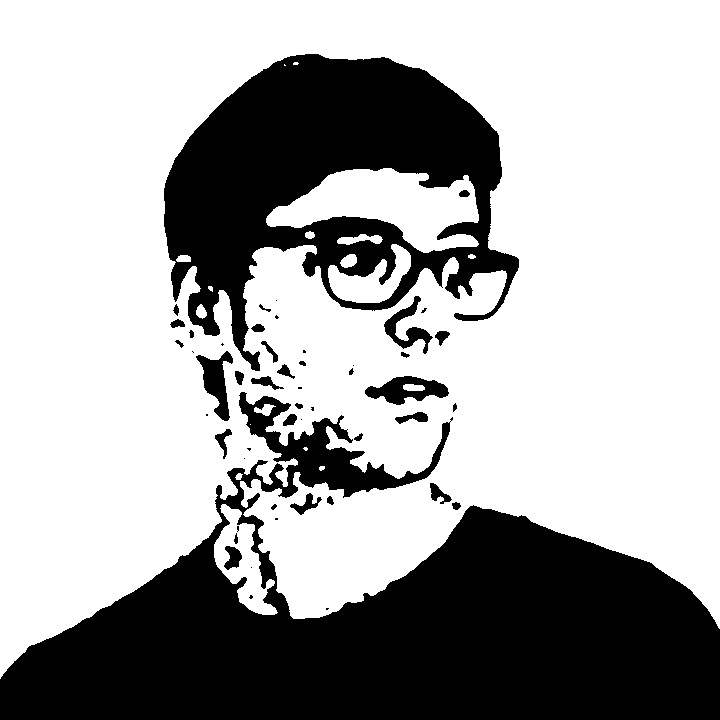
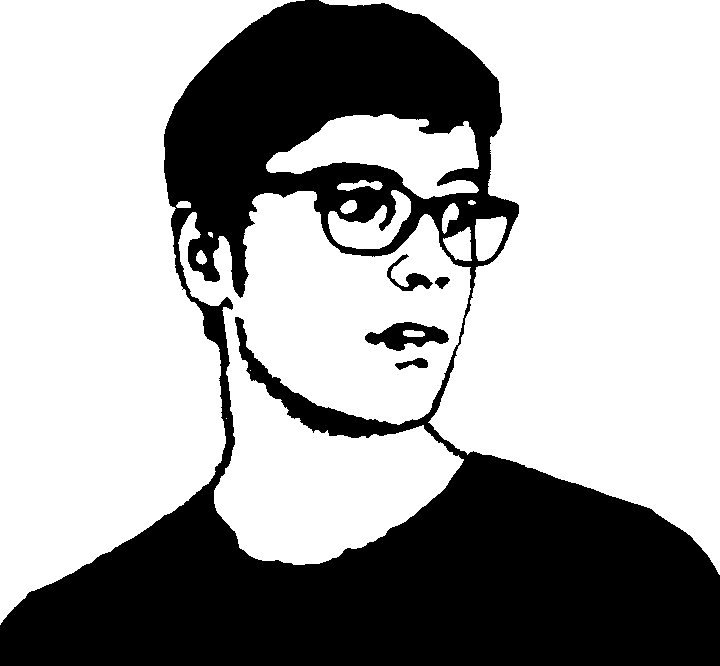
updated website with new information

diff --git a/index.html b/index.html
@@ -1,22 +1,23 @@
 ---
 layout: default
-title: Josep Arús
+title: Josep Arús-Pous
 ---
 
 <div id="index-container">
-  <img alt="Josep Arús" src="img/me3.png" id="img-me" />
+  <img alt="Josep Arús-Pous" src="img/me.png" id="img-me" />
   <p>
-  Hi! I'm Josep Arús<br>
+  Hi! I'm Josep Arús-Pous<br>
   a computer scientist<br>
   <span id="years-old"></span> years old<br>
   that loves science,<br>
-  <a href="http://lacaixademusica.cat" target="_blank">music</a><br>
+  music<br>
   and nerdiness in general.
   </p>
   <p>
   Right now<br>
-  I'm about to start a PhD<br>
+  I've started a PhD<br>
   in Chemoinformatics<br>
+  in the <a href="http://gdb.unibe.ch" target="_blank">Reymond Group</a>
   at the <a href="http://www.unibe.ch" target="_blank">University of Bern</a><br>
   in Switzerland.
   </p>

diff --git a/_includes/head.html b/_includes/head.html
@@ -3,7 +3,14 @@
   <meta http-equiv="X-UA-Compatible" content="IE=edge">
   <meta name="viewport" content="width=device-width, initial-scale=1">
 
+  <meta name="description" content="">
+
   <title>{{ include.title }}</title>
+
+  <!-- Favicons -->
+  <link rel="icon" type="image/png" href="/img/favicons/favicon-32x32.png" sizes="32x32">
+  <link rel="icon" type="image/png" href="/img/favicons/favicon-16x16.png" sizes="16x16">
+
 
   <!-- CSS -->
   <link href='https://fonts.googleapis.com/css?family=Inconsolata:400,700' rel='stylesheet' type='text/css'>
